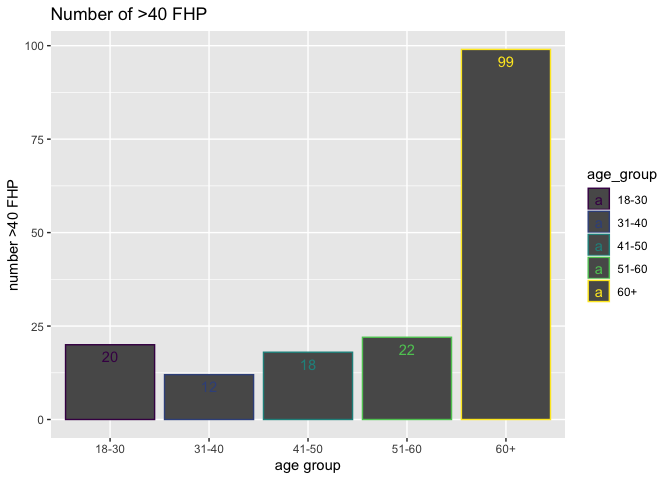
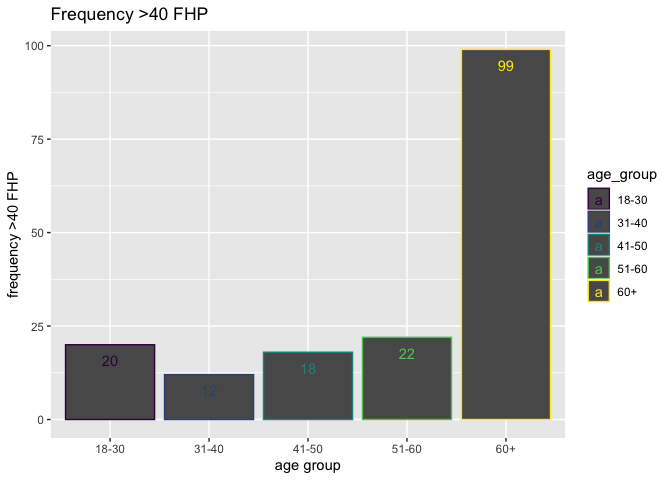
Update all questions, confirm word count falls under 500, finalize formatting.

diff --git a/p8105_midterm_mk4022.md b/p8105_midterm_mk4022.md
@@ -17,14 +17,14 @@ devtools::install_github("thomasp85/patchwork")
 library(tidyverse)
 ```
 
-    ## ── Attaching packages ───────────────────────────────────────────────────────────────────── tidyverse 1.2.1 ──
+    ## ── Attaching packages ───────────────────────────────────────────────────────────── tidyverse 1.2.1 ──
 
     ## ✔ ggplot2 3.2.1     ✔ purrr   0.3.2
     ## ✔ tibble  2.1.3     ✔ dplyr   0.8.3
     ## ✔ tidyr   1.0.0     ✔ stringr 1.4.0
     ## ✔ readr   1.3.1     ✔ forcats 0.4.0
 
-    ## ── Conflicts ──────────────────────────────────────────────────────────────────────── tidyverse_conflicts() ──
+    ## ── Conflicts ──────────────────────────────────────────────────────────────── tidyverse_conflicts() ──
     ## ✖ dplyr::filter() masks stats::filter()
     ## ✖ dplyr::lag()    masks stats::lag()
 
@@ -35,10 +35,7 @@ library(dplyr)
 library(patchwork)
 ```
 
-Problem 1 Part 1: Import and clean the data. Format the data to use
-appropriate variable names; fill in missing values with data where
-appropriate (as indicated in the header information); create character
-and ordered factors for categorical variables.
+Problem 1 Part 1:
 
 ``` r
 posture_data = 
@@ -70,14 +67,11 @@ posture_data
     ## # … with 1,209 more rows, and 2 more variables: fhp_size_mm <dbl>,
     ## #   fhp_category <ord>
 
-Part 2: Briefly describe the data cleaning process and the resulting
-dataset, identifying key variables based on your understanding of the
-original scientific report. How many participants are included? What is
-the age and gender distribution (a human-readable table may help here)?
-
-The dataset posture\_data is comprised of 9 columns. Key variables
-include We have 1,219 participants included in the posture\_data
-dataset. The age and gender distribution is
+Part 2: The dataset posture\_data is comprised of 9 columns. Key
+variables include eop\_size\_mm, fhp\_size\_mm, age, age\_group, and
+sex. Some variables were converted to ordered factors, and others
+remained numeric. We have 1,219 participants included in the
+posture\_data dataset.
 
 ``` r
 agesex_table = posture_data %>%
@@ -112,15 +106,7 @@ agesex_plot
 
 ![](p8105_midterm_mk4022_files/figure-gfm/unnamed-chunk-3-1.png)<!-- -->
 
-Problem 2 Figure 3 shows only the mean and standard deviation for FHP,
-but does not show the distribution of the underlying data. Figure 4
-shows the number of participants in each age and sex group who have an
-enlarged EOP (based on categorical EOP Size – groups 0 and 1 vs groups
-2, 3, 4, and 5). However, the number of participants in each age and sex
-group was controlled by the researchers, so the number with enlarged EOP
-in each group is not as informative as the rate of enlarged EOP in each
-group. Create a two-panel figure that contains improved versions of both
-of these.
+Problem 2 Part 1:
 
 ``` r
 figure3 = 
@@ -169,9 +155,9 @@ figure3+figure4
 
 ![](p8105_midterm_mk4022_files/figure-gfm/unnamed-chunk-4-3.png)<!-- -->
 
-Part 2: Create a 2 x 5 collection of panels, which show the association
-between FHP size and EOP size in each age and sex group. Comment on your
-plots with respect to the scientific question of interest.
+Part 2: Our plots show that for both men and women the rate of EOP size
+is higher among age 18-30 and increased FHP is more common among age
+60+. This is in line with the findings in the original paper.
 
 ``` r
 posture_data %>%
@@ -185,9 +171,8 @@ posture_data %>%
 
 ![](p8105_midterm_mk4022_files/figure-gfm/unnamed-chunk-5-1.png)<!-- -->
 
-Problem 3 Part 1: \* Are the authors’ stated sample sizes in each age
-group consistent with the data you have available? Sample sizes from
-paper: 18–30 n=300, 31–40 n=200, 41–50 n=200, 51–60 n=200 and \>60 n=300
+Problem 3 Part 1: Yes, a few groups have 3-4 more than cited in the
+paper, but in general they are consistent among age groups.
 
 ``` r
 posture_data %>%
@@ -204,9 +189,9 @@ posture_data %>%
     ## 4 51-60       200
     ## 5 60+         305
 
-Part 2: \* Are the reported mean and standard deviations for FHP size
-consistent with the data you have
-available?
+Part 2: Yes, our findings are consistent with the above mean and
+standard deviations for males and females cited in the
+paper.
 
 ``` r
 mean(pull(filter(posture_data,sex == "female"), fhp_size_mm), na.rm = TRUE)
@@ -232,12 +217,11 @@ sd(pull(filter(posture_data,sex == "male"), fhp_size_mm), na.rm = TRUE)
 
     ## [1] 14.66856
 
-Part 3: \* The authors find “the prevalence of EEOP to be 33% of the
-study population”. What is the definition of EEOP, and what variables
-can you use to evaluate this claim? Is the finding consistent with the
-data available to you? EEOP is an enlarged external occipital
-protuberance. We can use the variable eop\_size\_mm to determine how
-many of our subjects are above the 10mm specifiation for EEOP.
+Part 3: EEOP is an enlarged external occipital protuberance greater . We
+can use the variable eop\_size\_mm to determine how many of our subjects
+are above the 10mm specifiation for EEOP.  
+The prevalence from the paper is 33% and we find that is it 32%. This is
+similar enough to be consistent.
 
 ``` r
 posture_data %>%
@@ -250,21 +234,34 @@ posture_data %>%
     ##       <dbl>
     ## 1     0.322
 
-Part 4: \* FHP is noted to be more common in older subjects, with “FHP
-\>40 mm observed frequently (34.5%) in the over 60s cases”. Are the
-broad trends and specific values consistent with your data?
+Part 4: Yes, we see in the below plot that there is a greater frequency
+of increased FHP size in the age group 60+.
 
 ``` r
 posture_data %>%
  filter(fhp_size_mm > 40) %>%
  group_by(age_group) %>%
- summarize(n_obs=n()) %>%
+ summarize(n_obs = n()) %>%
  ggplot(aes(x = age_group, y = n_obs, color = age_group)) +
 geom_bar(stat = "identity") +
- geom_text(aes(label = n_obs), vjust=1.6)+
-   labs(title = "Number of >40 FHP",
+ geom_text(aes(label = n_obs), vjust = 2) + labs(title = "Frequency >40 FHP",
    x = "age group",
-   y = "number >40 FHP")
+   y = "frequency >40 FHP")
 ```
 
 ![](p8105_midterm_mk4022_files/figure-gfm/unnamed-chunk-9-1.png)<!-- -->
+
+Problem 4 The original report concludes that there is a 33% prevalance
+of EEOP in the population, that those aged 60+ have increased FHP size,
+and that those aged 18-30 have a higher rate of EEOP than other age
+groups due to increased mechanical load from using hand-held devices.
+While the results in our analysis conincide with the results found in
+the paper, we do not agree with the causal effect that is demonstrated
+by the authors. The methods in which the participants were recruited for
+the age group of 18-30 resulted in a potential bias which was
+erroneously interpreted by the authors. I do not think that this data is
+sufficient to suggest that cell phones are causing horn growth, but do
+think it should be further investigated. In order to make this causal
+assumption of hand-held devices and increaed prevalance of EEOP I would
+want detailed information on participant technology use, and lifestyle
+variables to coincide with eop and fhp sizes.
